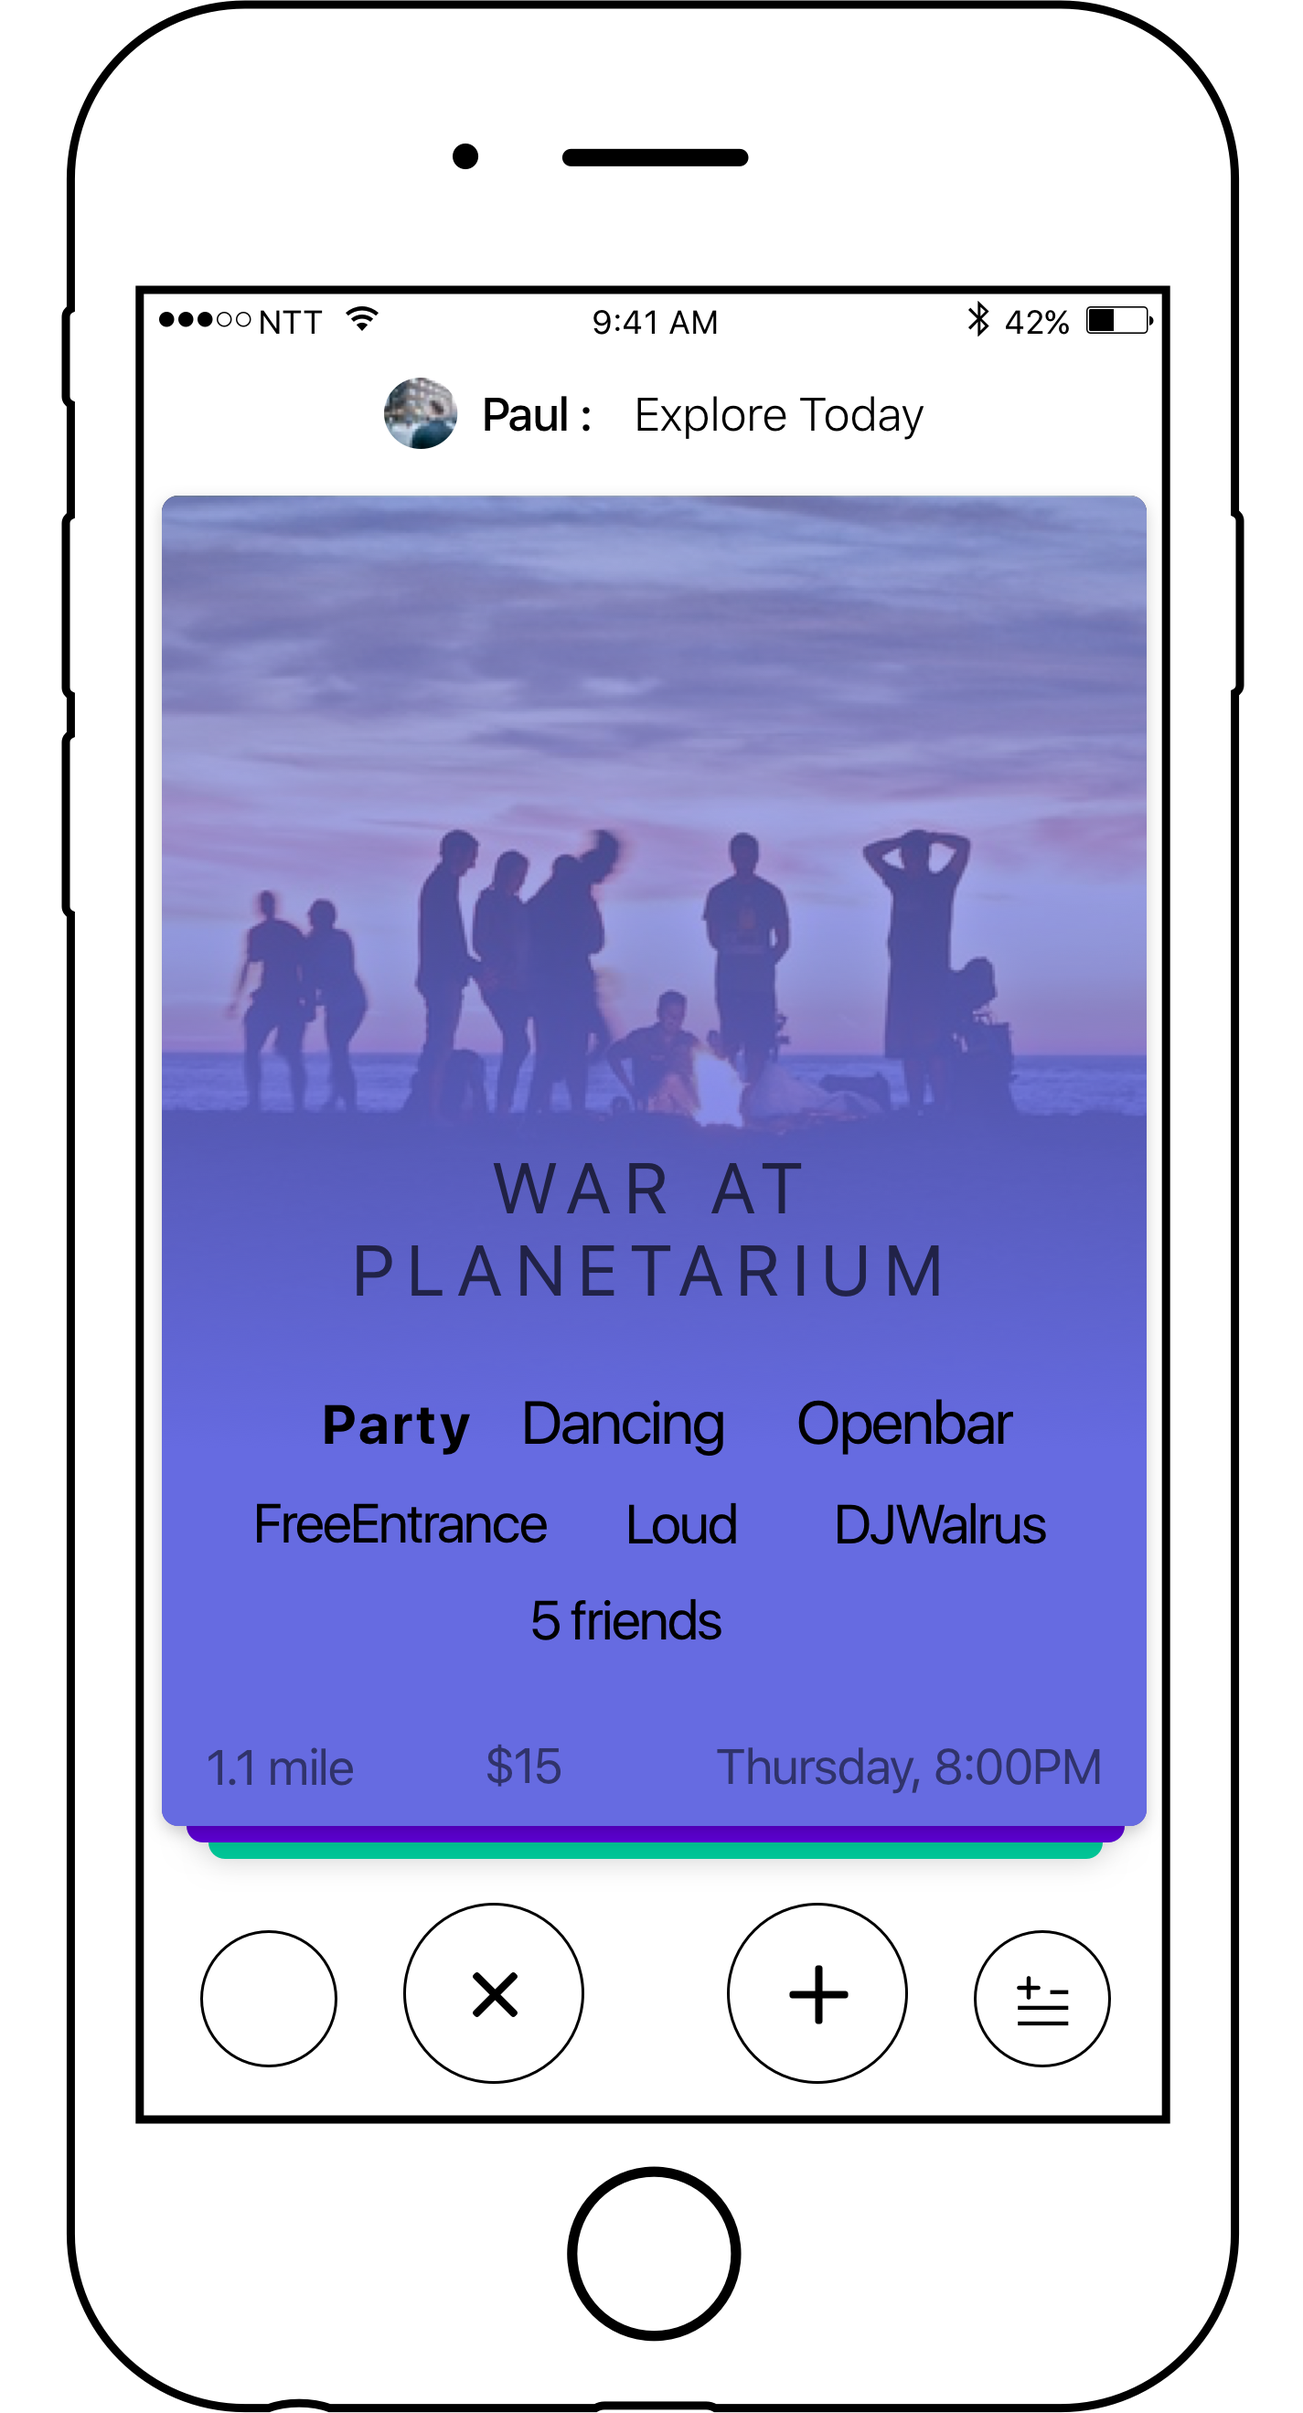
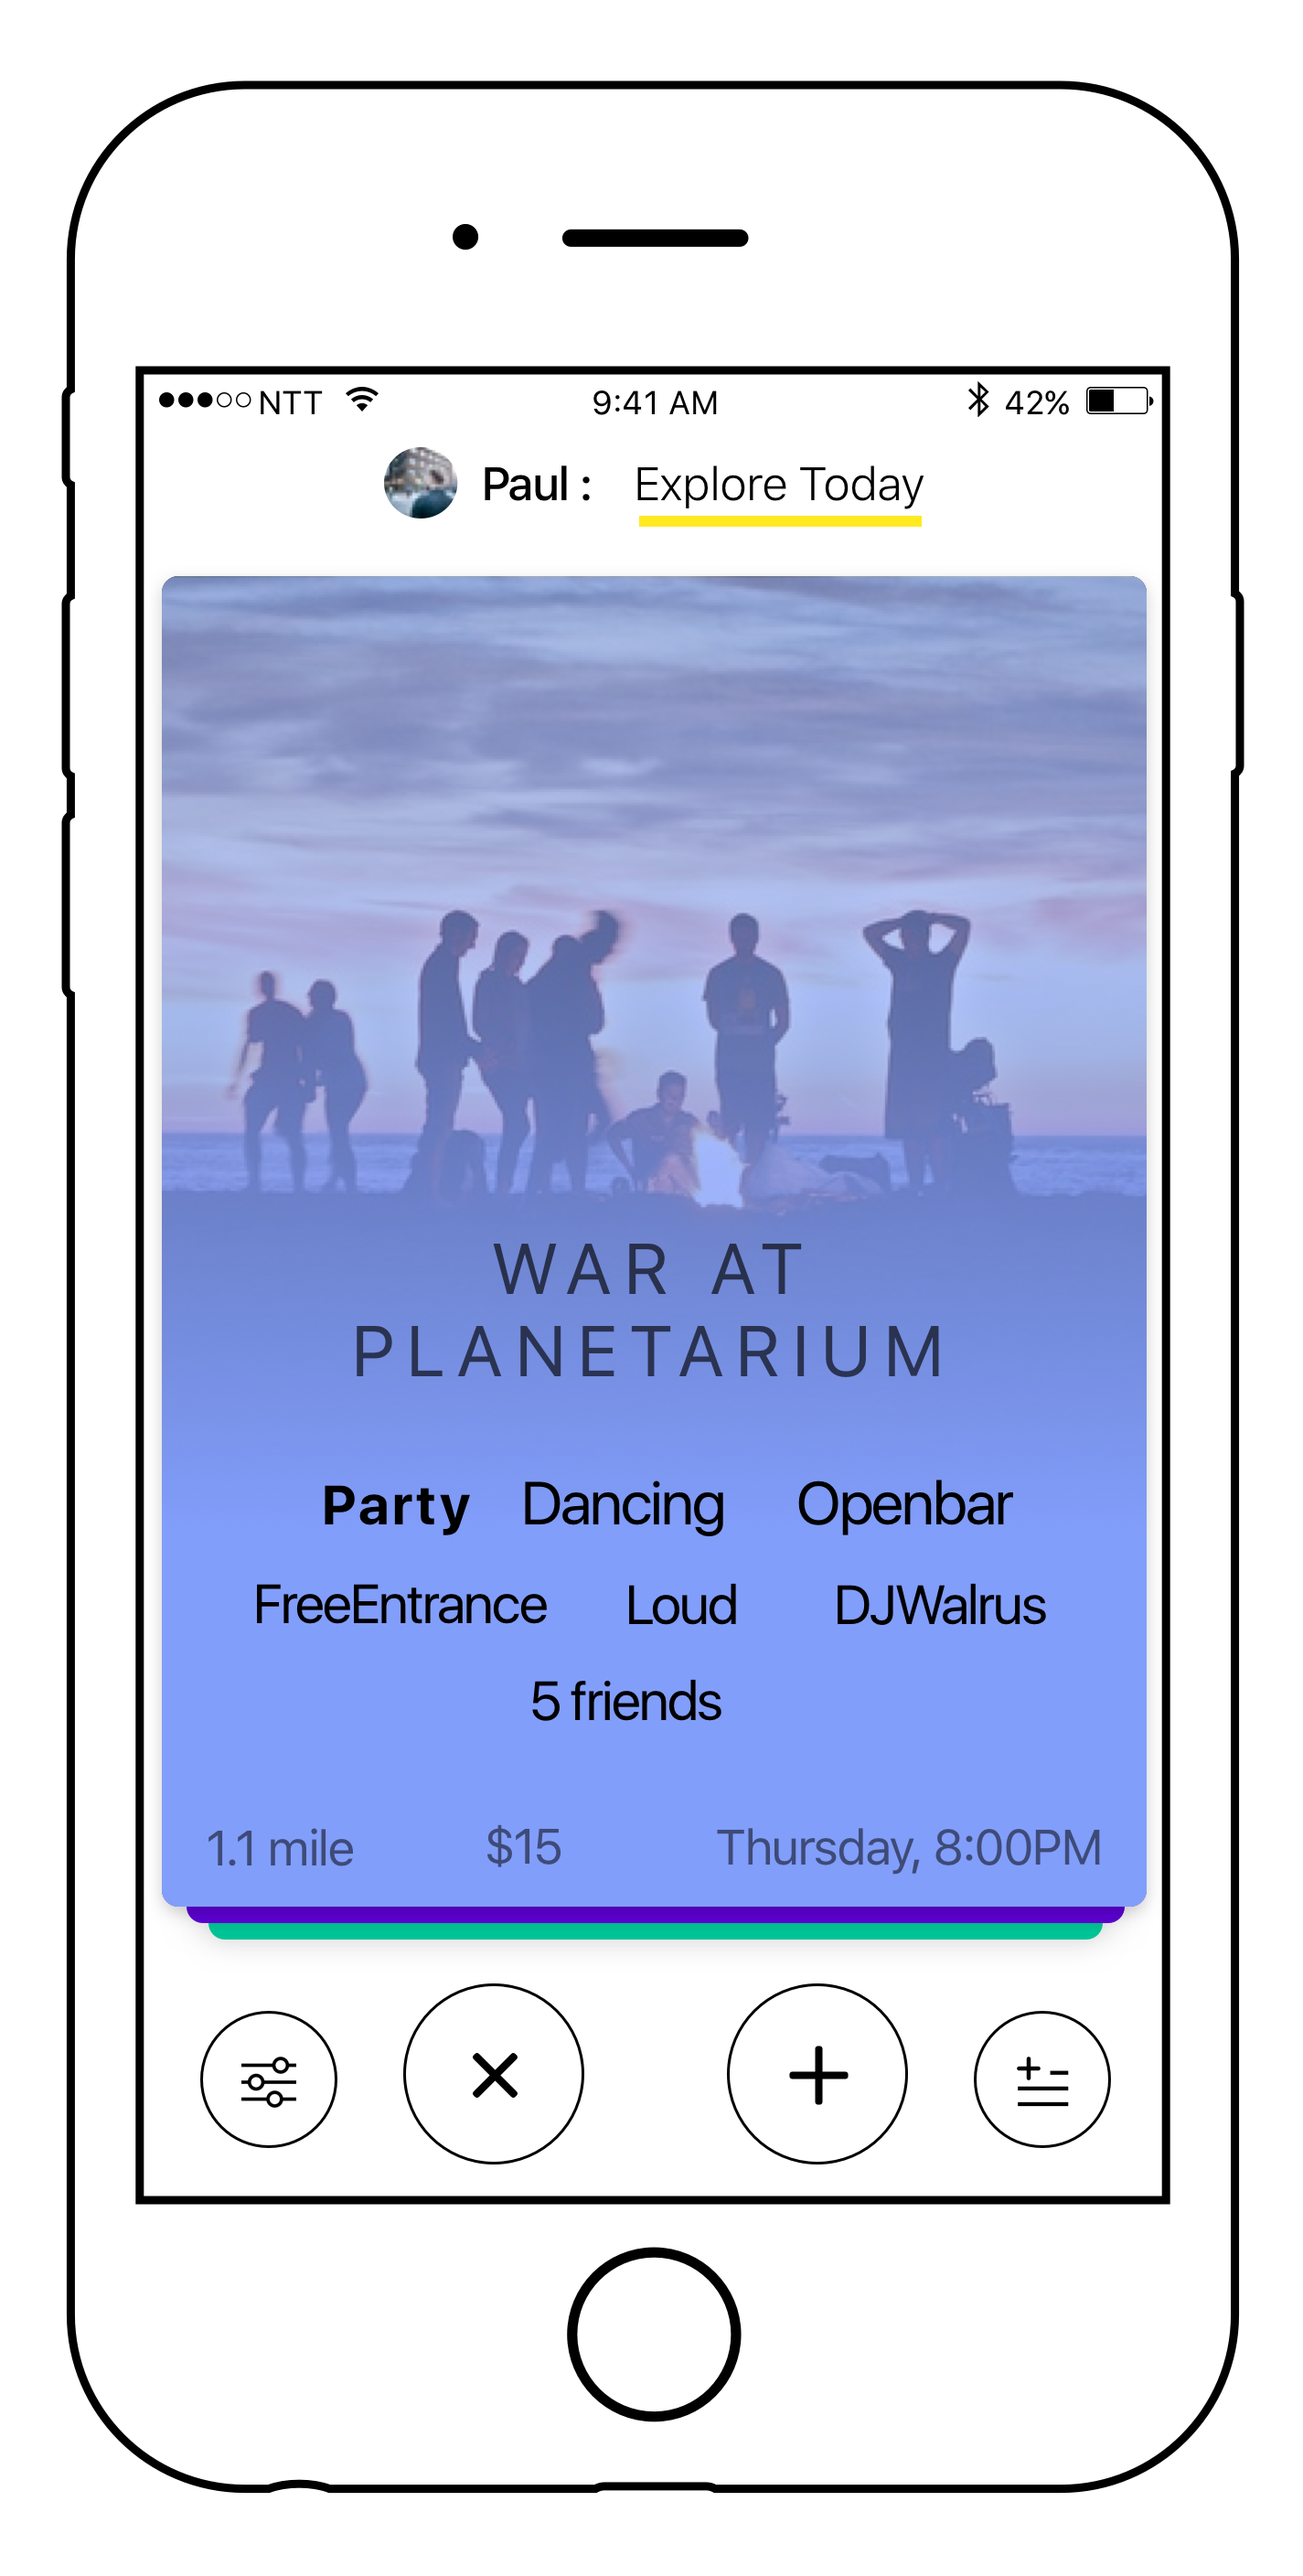
total redesign

diff --git a/index.html b/index.html
@@ -10,6 +10,7 @@
     <link rel="stylesheet" href="css/normalize.css">
     <link href="https://fonts.googleapis.com/css?family=PT+Serif|Poppins:500" rel="stylesheet">
     <script src="https://use.fontawesome.com/8002fed4c5.js"></script>
+    <script src="https://ajax.googleapis.com/ajax/libs/jquery/3.1.1/jquery.min.js"></script>
 
 </head>
 
@@ -17,19 +18,24 @@
 
 <body>
 
+
+<script>
+$(window).on('scroll', function(){
+if($(window).scrollTop() + $(window).height() == $(document).height()){
+    $('#sticky-button-mobile').fadeOut().hide();
+}
+else($('#sticky-button-mobile').fadeIn().show());
+});
+</script>
+
 <!-- ==== S T I C K Y == H E A D E R ==== -->
 
 <!-- M O B I L E -->
-
-<div class="sticky-header mobile-media container">
-    <p>
-        Hello
-    </p>
+<div class="sticky-header container">
     <button type="button" class="btn btn-outline-warning" id="sticky-button-mobile">
-        Sign up
+        <p>Sign up</br> for beta!</p>
     </button>
 </div>
-
 
 <!-- ==== H  E  R  O === U  N  I  T ==== -->
 
@@ -179,21 +185,30 @@
 
 <div class="mobile-media text-center container-fluid mobile-fonts padding-top-bottom" id="extra-feature-1">
 
-    <div class="mobile-media padding-top-bottom-small">
+    <div class="mobile-media padding-top-bottom-small text-center">
+        <img src="img/extra-feature-1-mobile.png" id="extra-feature-1-image">
+        <h1>Really personalized</h1>
+        <p>Like really</p>
     </div>
 
 </div>
 
 <div class="mobile-media text-center container-fluid mobile-fonts padding-top-bottom" id="extra-feature-2">
 
-    <div class="mobile-media padding-top-bottom-small">
+    <div class="mobile-media padding-top-bottom-small text-center">
+        <img src="img/extra-feature-2-mobile.png" id="extra-feature-2-image">
+        <h1>All the events</h1>
+        <p>Like really</p>
     </div>
 
 </div>
 
 <div class="mobile-media text-center container-fluid mobile-fonts padding-top-bottom" id="extra-feature-3">
 
-    <div class="mobile-media padding-top-bottom-small">
+    <div class="mobile-media padding-top-bottom-small text-center">
+        <img src="img/extra-feature-3-mobile.png" id="extra-feature-3-image">
+        <h1>Awesome tech</h1>
+        <p>Like really</p>
     </div>
 
 </div>

diff --git a/css/main.css b/css/main.css
@@ -5,7 +5,7 @@ body {
     background-color: #ffffff;
 }
 
-h1, h2 {
+h1, h2, h3 {
     font-family: Poppins;
     font-weight: 500;
 }
@@ -72,7 +72,7 @@ p {
     -webkit-border-radius: 50%;
     -moz-border-radius: 50%;
     border-radius: 50%;
-    background: #ffae00;
+    background: #ff4964;
 }
 
 .circle i {
@@ -93,11 +93,12 @@ p {
 
 .sticky-header {
     position: fixed;
-    top:0px;
+    right: 10px;
+    bottom: 5px;
     display: block;
-    width: 100%;
-    height: 7%;
-    background-color: #ffffff;
+    width: 120px;
+    height: 120px;
+
     z-index: 100;
 }
 
@@ -112,9 +113,21 @@ p {
 /* mobile */
 
 #sticky-button-mobile {
-    float: right;
-    padding-top: 0%;
-    padding-right: 5%;
+    width: 100px;
+    height: 100px;
+    -webkit-border-radius: 50%;
+    -moz-border-radius: 50%;
+    border-radius: 50%;
+    background: #ff4964;
+    z-index: 100;
+}
+
+#sticky-button-mobile p {
+    font-family: Poppins;
+    font-size: 16px;
+    color: #ffffff;
+    padding:0px;
+    margin: 0px;
 }
 
 /* Hero unit -------------------------------------------- */
@@ -167,7 +180,7 @@ p {
 }
 
 #feature-1-mobile {
-    background-color: #FFEA21;
+    background-color: #6CD8FD;
 }
 
 #feature-1-image-mobile img {
@@ -197,12 +210,27 @@ p {
     background-color: #FFEA21;
 }
 
+#extra-feature-1-image {
+    width: 22%;
+    height: auto;
+}
+
 #extra-feature-2 {
-    background-color: #F7325F ;
+    background-color: #829efb;
+}
+
+#extra-feature-2-image {
+    width: 22%;
+    height: auto;
 }
 
 #extra-feature-3 {
-    background-color: #7E58DD;
+    background-color: #6CD8FD;
+}
+
+#extra-feature-3-image {
+    width: 22%;
+    height: auto;
 }
 
 /* INSTANCES - END =================================================================================*/
